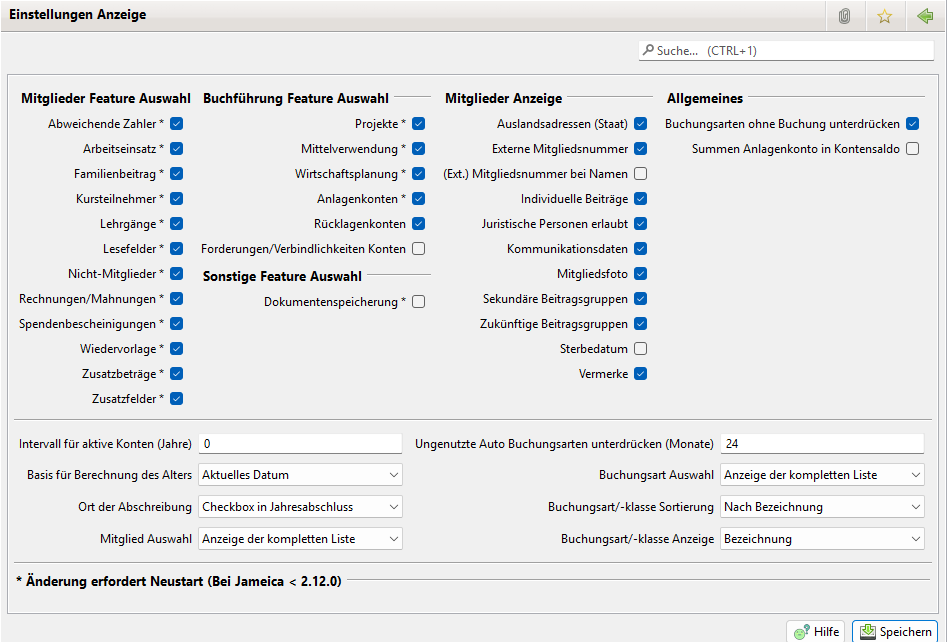
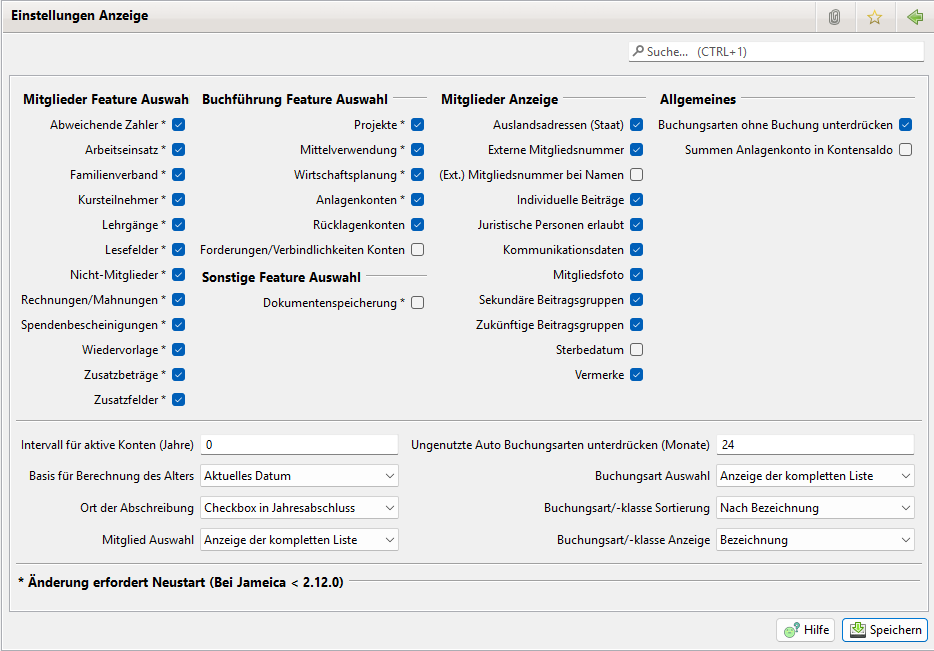
Update wegen PRs

Changed region(s): [[0.0, 0.0, 1.0, 1.0], [0.0, 0.0, 0.1552, 0.0623], [0.6831, 0.0623, 0.8073, 0.0935]]

diff --git a/v/4.1/mitglieder/familienbeitrag.md b/v/4.1/mitglieder/familienbeitrag.md
@@ -1,10 +1,10 @@
-# Familienbeitrag
+# Familienverband
 
 ### Aktivierung
 
-Zur Nutzung der Familienbeiträge ist die Option unter Administration->Einstellungen->Anzeige zu aktivieren.
+Zur Nutzung von Familienverband ist die Option unter Administration->Einstellungen->Anzeige zu aktivieren.
 
-Anschließend sollte JVerein neu gestartet werden, damit der Menüpunkt "Familienbeitrag" zur Verfügung steht.
+Anschließend sollte JVerein neu gestartet werden, damit der Menüpunkt "Familienverband" zur Verfügung steht.
 
 ## Tabelle der Familien Beziehungen
 
@@ -12,7 +12,7 @@ Dieser Dialog zeigt alle Familien Beziehungen an.
 
 Siehe auch [Familientarife](../../../allgemein/familientarife.md).
 
-<picture><img src="https://github.com/openjverein/jverein-Book/raw/master/assets/320_FamilienBeitragView.png" alt="" /></picture>
+<picture><img src="https://github.com/openjverein/jverein-Book/raw/master/assets/401_FamilienverbandView.png" alt="" /></picture>
 
 Einträge können nach Mitgliedschaft gefiltert werden.
 

diff --git a/v/4.1/administration/einstellungen/anzeige.md b/v/4.1/administration/einstellungen/anzeige.md
@@ -13,7 +13,7 @@ Folgende Einstellungen können vorgenommen werden:
 Hier können Feature aktiviert werden, die dann im Navigationsbaum unter den Mitgliedern verfügbar sind:
 * Abweichende Zahler: Unterstützung von abweichenden Zahlern (siehe [Abweichende Zahler](../../mitglieder/abweichendezahler.md))
 * Arbeitseinsatz: Unterstützung von Arbeitsstunden (siehe [Arbeitseinsätze](../../mitglieder/arbeitseinsatz.md))
-* Familienbeitrag: Unterstützung von Familienbeitrag (siehe [Familienbeitrag](../../mitglieder/familienbeitrag.md))
+* Familienverband: Unterstützung von Familienverband (siehe [Familienverband](../../mitglieder/familienbeitrag.md))
 * Kursteilnehmer: Unterstützung von Kursteilnehmern (siehe [Kursteilnehmer](../../mitglieder/kursteilnehmer.md))
 * Lehrgänge: Unterstützung von Lehrgängen (siehe [Lehrgänge](../../mitglieder/lehrgange.md))
 * Lesefelder: Unterstützung von Lesefeldern (siehe [Lesefelder](../mitglieder/lesefelder.md))

diff --git a/allgemein/familientarife.md b/allgemein/familientarife.md
@@ -18,4 +18,4 @@ Die Familienmitglieder sind miteinander verknüpft. Tritt das voll zahlende Mitg
 
 ## Übersicht
 
-In der Übersicht [Familienbeitrag](../v/allgemeine-funktionen/mitglieder/familienbeitrag.md) werden alle Familienverbände in Form eines Baumes aufgelistet. Es werden jeweils der Zahler mit den Angehörigen dargestellt.
+In der Übersicht [Familienverband](../v/allgemeine-funktionen/mitglieder/familienbeitrag.md) werden alle Familienverbände in Form eines Baumes aufgelistet. Es werden jeweils der Zahler mit den Angehörigen dargestellt.

diff --git a/v/4.1/mitglieder/abweichendezahler.md b/v/4.1/mitglieder/abweichendezahler.md
@@ -21,4 +21,4 @@ Es werden alle Mitglieder bzw. Nicht-Mitglieder aufgelistet, die als abweichende
 
 Mit einem Doppelklick auf ein Mitglied bzw. bei Auswahl des Menüpunktes "Mitglied anzeigen" lässt sich zu diesem Mitglied springen.
 
-Der Eintrag für den alternativen Zahler lässt sich bei einem Mitglied entfernen.
+Der Eintrag für den abweichender Zahler lässt sich bei einem Mitglied entfernen.
